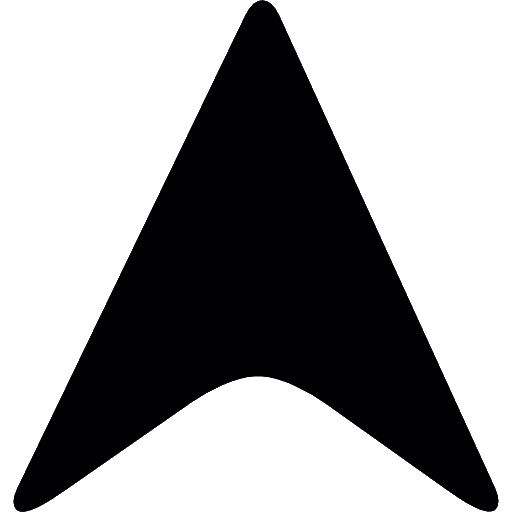
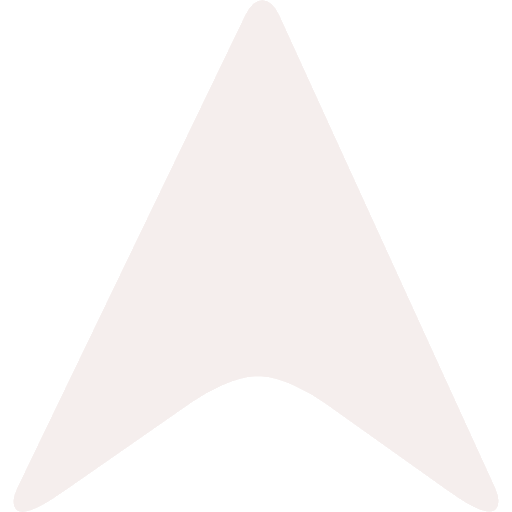
Fixed scrollup button and other restyling of pages

diff --git a/script.js b/script.js
@@ -18,7 +18,7 @@ function themeToggler() { // toggles the theme
     if ( randomNum === 69 ) { // funny easter egg thing (1% chance or sumthn?) 
         body.classList.remove("light-mode");
         body.classList.add("crazy-mode");
-        toggleIcon.src="images/linkedin-logo.png";
+        toggleIcon.src="./images/linkedin-logo.png";
         toggleIcon.alt="??? Mode"; 
         //toggleButton.textContent = "??? Mode";
         console.log("???"); 
@@ -28,20 +28,20 @@ function themeToggler() { // toggles the theme
         if ( savedTheme === LIGHT_MODE ) { // if saved as light mode 
             body.classList.remove("light-mode");
             localStorage.setItem("theme", DARK_MODE);
-            toggleIcon.src="images/sun.png";
+            toggleIcon.src="./images/sun.png";
             toggleIcon.alt="Light Mode"; 
             //toggleButton.textContent = "Light Mode"; 
         } else if (savedTheme === DARK_MODE ) { // if saved as dark mode
             body.classList.add("light-mode");
             localStorage.setItem("theme", LIGHT_MODE);
-            toggleIcon.src="images/moon.png";
+            toggleIcon.src="./images/moon.png";
             toggleIcon.alt="Dark Mode"; 
             //toggleButton.textContent = "Dark Mode"; 
         } else { // if nothing valid saved 
             console.error("No theme saved. Defaulting to dark mode."); 
             body.classList.remove("light-mode");
             localStorage.setItem("theme", DARK_MODE);
-            toggleIcon.src="images/sun.png";
+            toggleIcon.src="./images/sun.png";
             toggleIcon.alt="Light Mode"; 
             //toggleButton.textContent = "Dark Mode";
         }
@@ -68,14 +68,14 @@ function setThemeOnLoad() { // sets theme depending on the saved theme
     if ( savedTheme === LIGHT_MODE ) {
         body.classList.add("light-mode");
         toggleIcon.opacity = 0;
-        toggleIcon.src="images/moon.png"; 
+        toggleIcon.src="./images/moon.png"; 
         toggleIcon.alt="Dark Mode"; 
         toggleIcon.opacity = 1; 
         //toggleButton.textContent = "Dark Mode"; 
     } else if ( savedTheme === DARK_MODE ) {
         body.classList.remove("light-mode");
         toggleIcon.opacity = 0;
-        toggleIcon.src="images/sun.png";
+        toggleIcon.src="./images/sun.png";
         toggleIcon.alt="Light Mode"; 
         toggleIcon.opacity = 1; 
         //toggleButton.textContent = "Light Mode"; 
@@ -83,7 +83,7 @@ function setThemeOnLoad() { // sets theme depending on the saved theme
         console.error("No theme saved. Defaulting to dark mode."); 
         body.classList.remove("light-mode");
         toggleIcon.opacity = 0;
-        toggleIcon.src="images/sun.png";
+        toggleIcon.src="./images/sun.png";
         toggleIcon.alt="Light Mode"; 
         toggleIcon.opacity = 1; 
         localStorage.setItem("theme", DARK_MODE);
@@ -291,7 +291,7 @@ function showArrow() { // Shows button to user when scrolling past a certain lim
         button.style.display = "block";
         setTimeout(() => {
             button.style.opacity = 1;
-        }, 250);
+        }, 0);
     } else {
         button.style.opacity = 0; 
         setTimeout(() => {

diff --git a/styles.css b/styles.css
@@ -5,6 +5,7 @@
   --secondary-colour: #F7EBEC; /* Light grey for FG */
   --text-colour: #e1e1e1;      /* Text colour */
   --hover-colour: #3B3B3E;     /* Hover button colour */
+  --invert-percent: 0%;          /* Invert colour percentage */
 }
 
 .light-mode {                    /* LIGHT MODE */
@@ -12,6 +13,7 @@
   --secondary-colour: #2E2C2F; /* Dark grey for FG */
   --text-colour: #3e3e3e;      /* Text colour */
   --hover-colour: #e4dadb;     /* Hover button colour */
+  --invert-percent: 100%;        /* Invert colour percentage */
 }
 
 .crazy-mode {                    /* CRAZY MODE */
@@ -79,21 +81,13 @@ a {
   transition: color 0.5s ease;
 }
 
-footer {
-  color: var(--text-colour); 
-  position: fixed; 
-  bottom: 0;
-  right: 0.5%;
-  left: 0.5%;
-  text-align: left;
-}
-
 #nav-bar {
   color: var(--text-colour);
   position: sticky; 
-  top: 0; 
+  top: 0px; 
   background-color: var(--primary-colour); 
   margin: 0px 0px; 
+  padding: 0px 0px;
   width: 100%;
   transition: background-color 0.5s ease, color 0.5s ease;
 }
@@ -115,11 +109,22 @@ footer {
   margin-left: 2.5%;
   padding-left: 2.5%;
   margin-right: 50%; 
+  width: 50%; 
   border-left: thick solid var(--hover-colour); 
   max-height: 0px;
   overflow: hidden; 
   display: block; 
   transition: max-height 0.25s ease, border-color 0.5s ease;
+}
+
+.bottom-section{
+  display: flex; 
+  justify-content: center; 
+  height: 60px; 
+  width: 100%; 
+  margin-top: 32px;
+  right: 50%; 
+  left: 50%;
 }
   
 .button, .filter-button, .projectTitle {
@@ -204,18 +209,29 @@ footer {
   transition: color 0.5s ease, opacity 0.5s ease, background-color 0.5s ease; 
 }
 
+.buttonimg:hover {
+  background-color: var(--hover-colour); 
+}
+
+#arrow-up {
+  filter: invert(var(--invert-percent));
+  transition: filter 0.5s ease;
+}
+
 .upButton {
+  background-color: var(--primary-colour);
   opacity: 0; 
   position: fixed;
-  width: 36px; 
-  height: 36px; 
-  bottom: 5%;
-  left: 5%; 
+  width: 64px; 
+  height: 64px; 
+  bottom: 2%;
+  left: 25%; 
   display: none;
   justify-content: center;
   align-items: center;
+  transition: color 0.25s ease, opacity 0.25s ease, background-color 0.25s ease; 
 }
 
-.buttonimg:hover {
+.upButton:hover {
   background-color: var(--hover-colour); 
 }

diff --git a/projects.html b/projects.html
@@ -5,7 +5,7 @@
   <meta charset="utf-8">
   <meta name="viewport" content="width=device-width">
   <title>Zachariah | Projects</title>
-  <link id="favicon" rel="icon" type="image/png" href="/images/favicon1.png">
+  <link id="favicon" rel="icon" type="image/png" href="./images/favicon1.png">
   <link rel="stylesheet" type="text/css" href="styles.css">
 
   <link href="https://fonts.googleapis.com/css2?family=Montserrat" rel="stylesheet">
@@ -86,7 +86,9 @@
           <p><a href="#">View Footage (Implementing Soon...) </a></p>
         </div>
       </section>
-      <button class="upButton" id="scrollup-button" onclick="scrollToTop()"><img src="images/arrow-up.png" alt="^" width="50%" height="50%"></button>
+      <div class="bottom-section"></div>
+        <button class="upButton" id="scrollup-button" onclick="scrollToTop()"><img id="arrow-up" src="./images/arrow-up.png" alt="^" width="50%" height="50%"></button>
+      </div>
     </div>
   </div>
 </html> 

diff --git a/contacts.html b/contacts.html
@@ -5,7 +5,7 @@
   <meta charset="utf-8">
   <meta name="viewport" content="width=device-width">
   <title>Zachariah | Contacts</title>
-  <link id="favicon" rel="icon" type="image/png" href="/images/favicon1.png">
+  <link id="favicon" rel="icon" type="image/png" href="./images/favicon1.png">
   <link rel="stylesheet" type="text/css" href="styles.css">
 
   <link href="https://fonts.googleapis.com/css2?family=Montserrat" rel="stylesheet">
@@ -40,10 +40,4 @@
       <p>Here, you will find my array of personal projects and portfolio in more detail. </p>
     </section>
   </div>
-
-  <footer>
-    <hr>
-    <p><i>Copyright ©  |  2025 Zachariah</i></p> 
-    <br>
-  </footer>
 </html> 

diff --git a/index.html b/index.html
@@ -5,7 +5,7 @@
   <meta charset="utf-8">
   <meta name="viewport" content="width=device-width">
   <title>Zachariah | Home</title>
-  <link id="favicon" rel="icon" type="image/png" href="/images/favicon1.png">
+  <link id="favicon" rel="icon" type="image/png" href="./images/favicon1.png">
   <link rel="stylesheet" type="text/css" href="styles.css">
 
   <link href="https://fonts.googleapis.com/css2?family=Montserrat" rel="stylesheet">
@@ -60,10 +60,4 @@
       </h3>
     </section>
   </div> 
-
-  <footer>
-    <hr width="100%"/>
-    <p><i>Copyright ©  |  2025 Zachariah</i></p> 
-  </footer>
-
 </html> 
